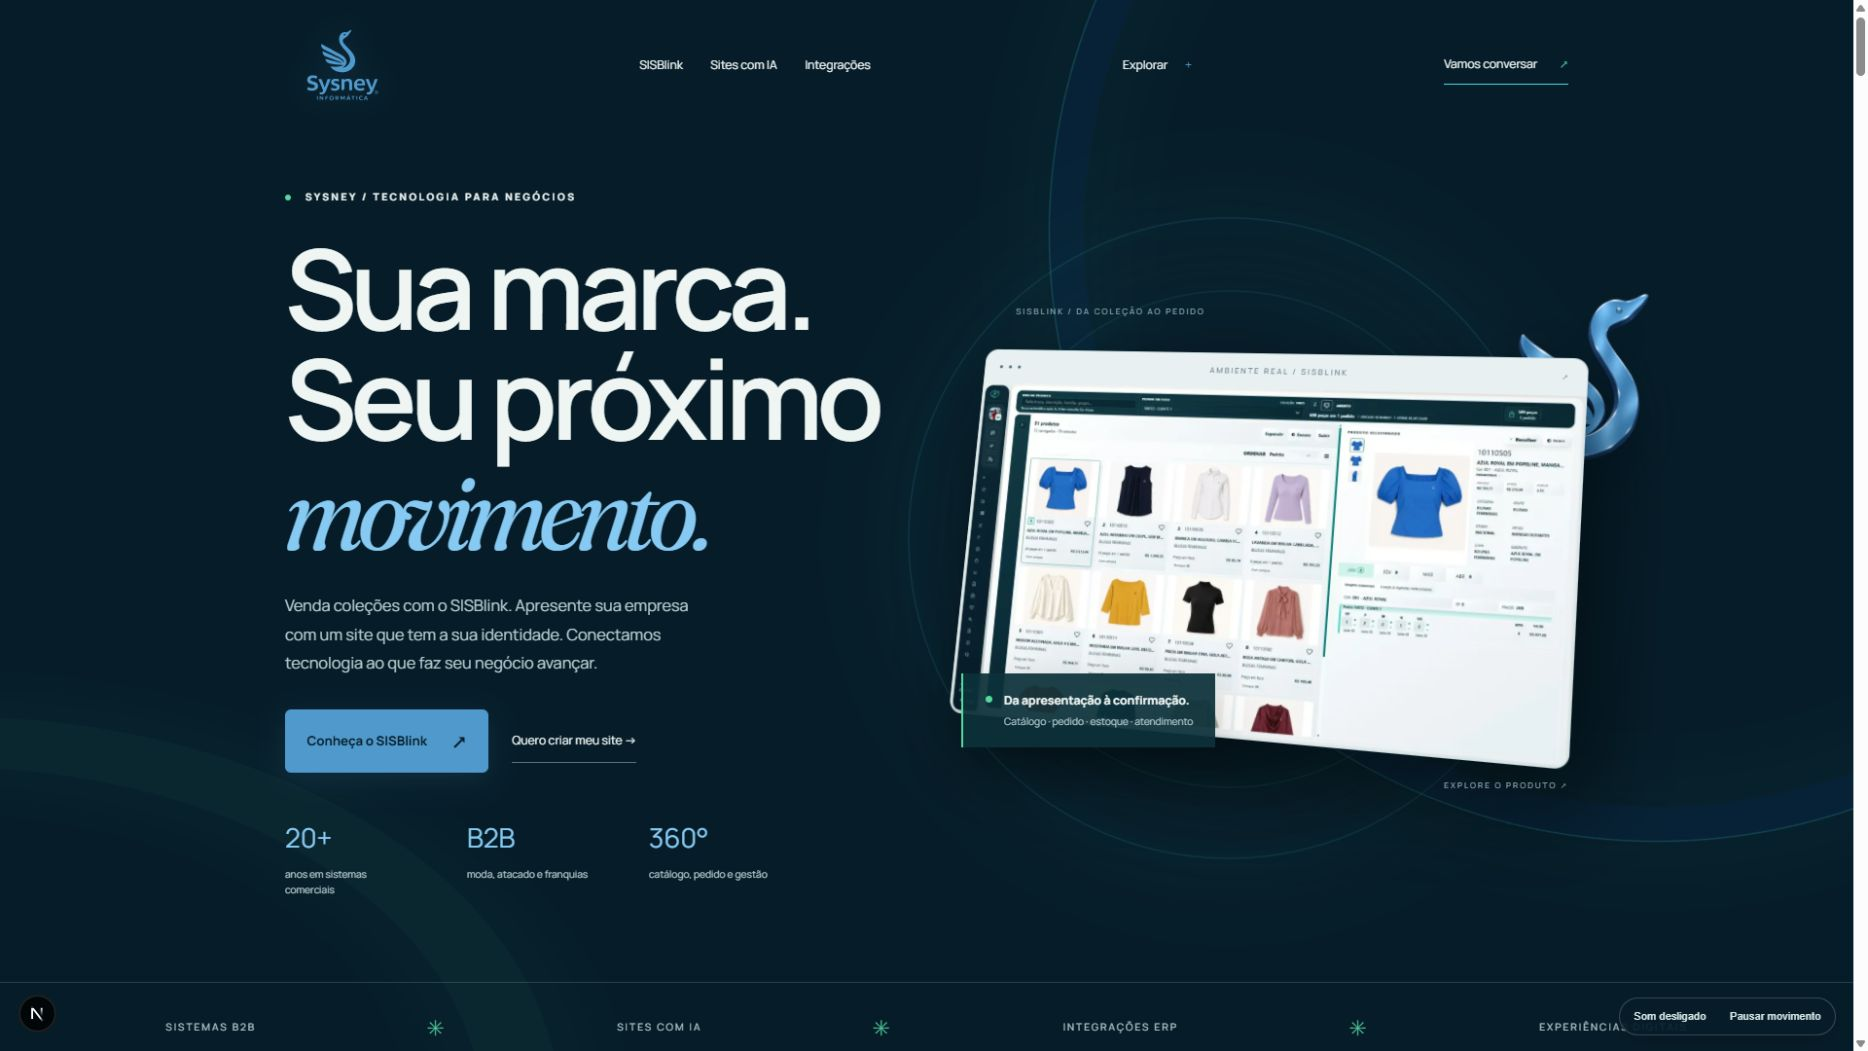
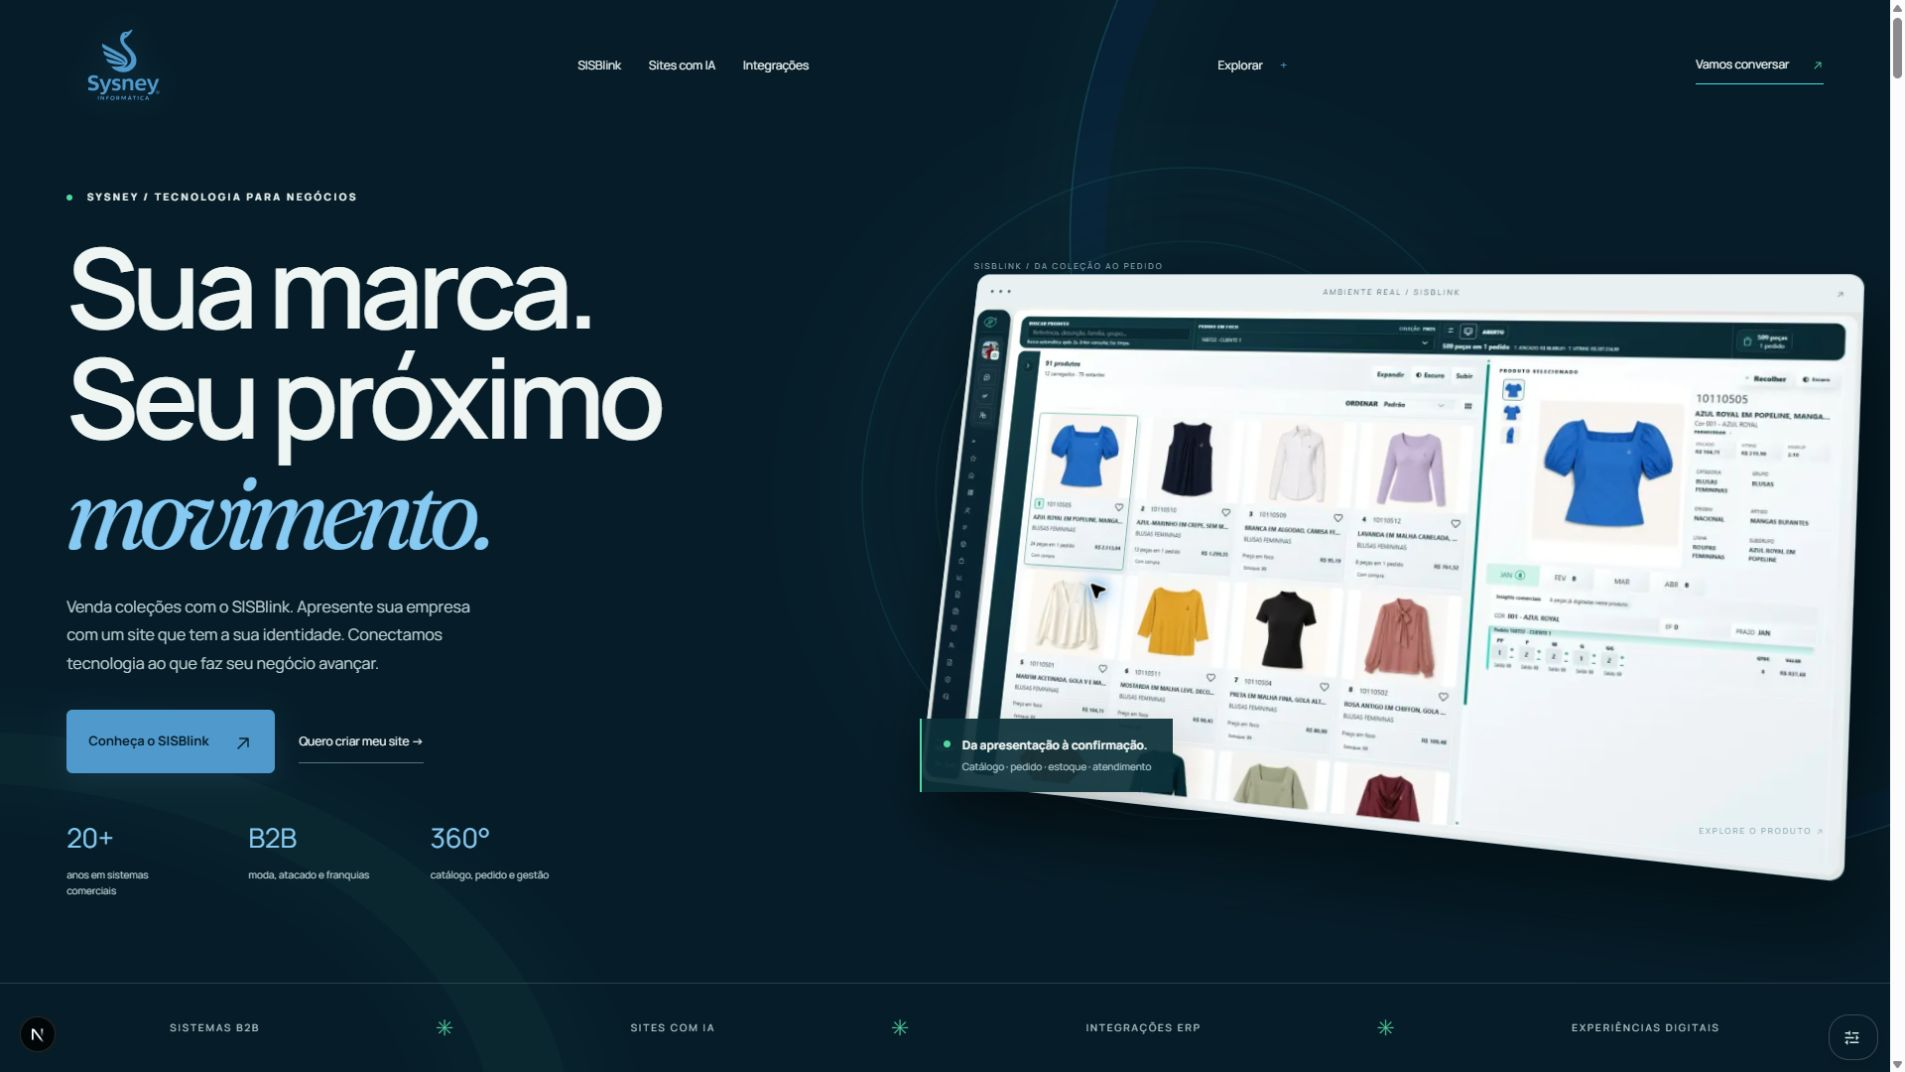
style(site): amplia abertura e atualiza comparativo de remodelacao

diff --git a/app/remodelacao-de-sites/remodelacao.css b/app/remodelacao-de-sites/remodelacao.css
@@ -1,1 +1,11 @@
 .remodel-page{background:#08232e;color:#edf6fa}.remodel-hero,.remodel-case,.remodel-process,.remodel-close{padding:90px 6vw}.remodel-kicker{font-size:11px;letter-spacing:.2em;color:#86c9f2;font-weight:700}.remodel-hero h1{font-size:clamp(44px,6vw,88px);line-height:1.04;letter-spacing:-.05em;max-width:1100px;margin:30px 0}.remodel-page em{font-family:Fraunces,Georgia,serif;color:#86c9f2;font-weight:400}.remodel-hero>p:not(.remodel-kicker),.remodel-close>p:not(.remodel-kicker){max-width:730px;line-height:1.8;font-size:18px;margin-bottom:30px}.remodel-secondary{display:inline-block;margin:24px;color:#b9dcec}.remodel-case{background:#eaf4fa;color:#082735}.remodel-case .remodel-kicker{color:#25668f}.remodel-page h2{font-size:clamp(34px,4.5vw,64px);line-height:1.1;letter-spacing:-.04em;margin:22px 0}.remodel-case>p{max-width:850px;line-height:1.8}.remodel-case article{margin-top:60px}.remodel-case h3{font-size:26px;margin-bottom:12px}.remodel-case article>p{line-height:1.7;max-width:800px;margin-bottom:24px}.remodel-comparison{display:grid;grid-template-columns:1fr 1fr;gap:24px}.remodel-comparison figure{min-width:0;margin:0}.remodel-comparison figcaption{display:flex;justify-content:space-between;font-size:12px;font-weight:700;margin-bottom:14px;color:#25668f}.remodel-comparison figcaption span{font-weight:400}.remodel-comparison img{width:100%;height:auto;aspect-ratio:16/10;object-fit:contain;background:#dae7ef;border-radius:10px;border:1px solid #bcd3df}.remodel-note{font-size:12px;margin-top:35px}.remodel-process>div{display:grid;grid-template-columns:repeat(3,1fr);gap:45px;margin-top:50px}.remodel-process article{border-top:1px solid #5099cc70;padding-top:24px}.remodel-process article>span{color:#86c9f2;font-size:14px}.remodel-process h3{font-size:25px;margin:20px 0}.remodel-process article p{line-height:1.8;color:#b5ccd6}.remodel-close{background:#123746}.remodel-page a:focus-visible{outline:2px solid #5099cc;outline-offset:5px}@media(max-width:800px){.remodel-hero,.remodel-case,.remodel-process,.remodel-close{padding:60px 24px}.remodel-comparison,.remodel-process>div{grid-template-columns:1fr}.remodel-secondary{margin-left:0}.remodel-comparison{gap:32px}}
+.remodel-comparison img {
+  aspect-ratio: auto;
+  border: 0;
+  border-radius: 0;
+  background: transparent;
+}
+@media (max-width: 800px) {
+  .remodel-comparison { margin-inline: -12px; }
+  .remodel-comparison figcaption { padding-inline: 12px; }
+}

diff --git a/app/components/brand-motion.css b/app/components/brand-motion.css
@@ -99,3 +99,26 @@
 @media (max-width: 767px) {
   .sysney-experience.sound-enabled .home-mobile-action { bottom: 66px; }
 }
+
+/* A abertura usa a largura da tela, com respiro proporcional. */
+.sysney-experience :is(.home-opening, .studio) .studio-hero {
+  max-width: none;
+  padding-inline: clamp(20px, 3.5vw, 80px);
+  grid-template-columns: minmax(0, 1fr) minmax(0, 1.15fr);
+}
+.sysney-experience .home-redesign > section:not(.closing-scene) > div {
+  max-width: 1600px;
+}
+.sysney-experience :is(.home-opening, .studio) .studio-header {
+  max-width: none;
+  padding-inline: clamp(20px, 3.5vw, 80px);
+}
+@media (max-width: 850px) {
+  .sysney-experience :is(.home-opening, .studio) .studio-hero {
+    grid-template-columns: minmax(0, 1fr);
+  }
+}
+
+.sysney-experience .home-redesign #contato > .closing-horizon {
+  max-width: none;
+}
